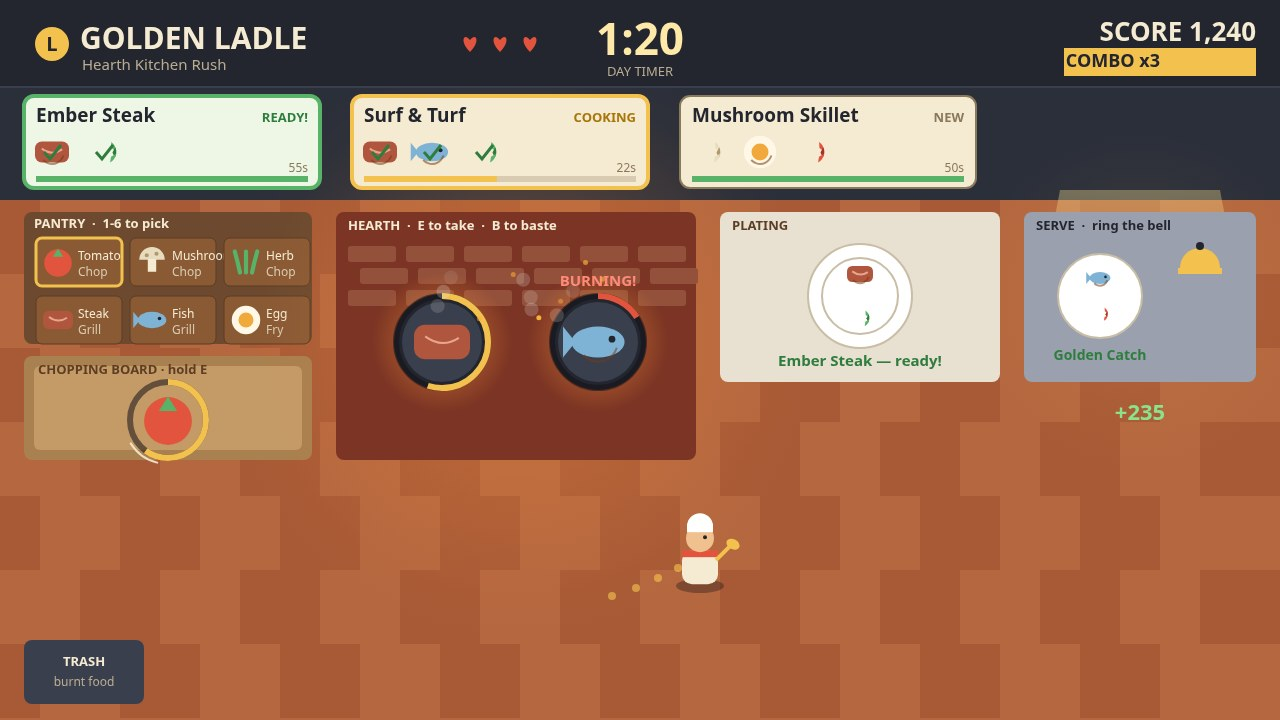
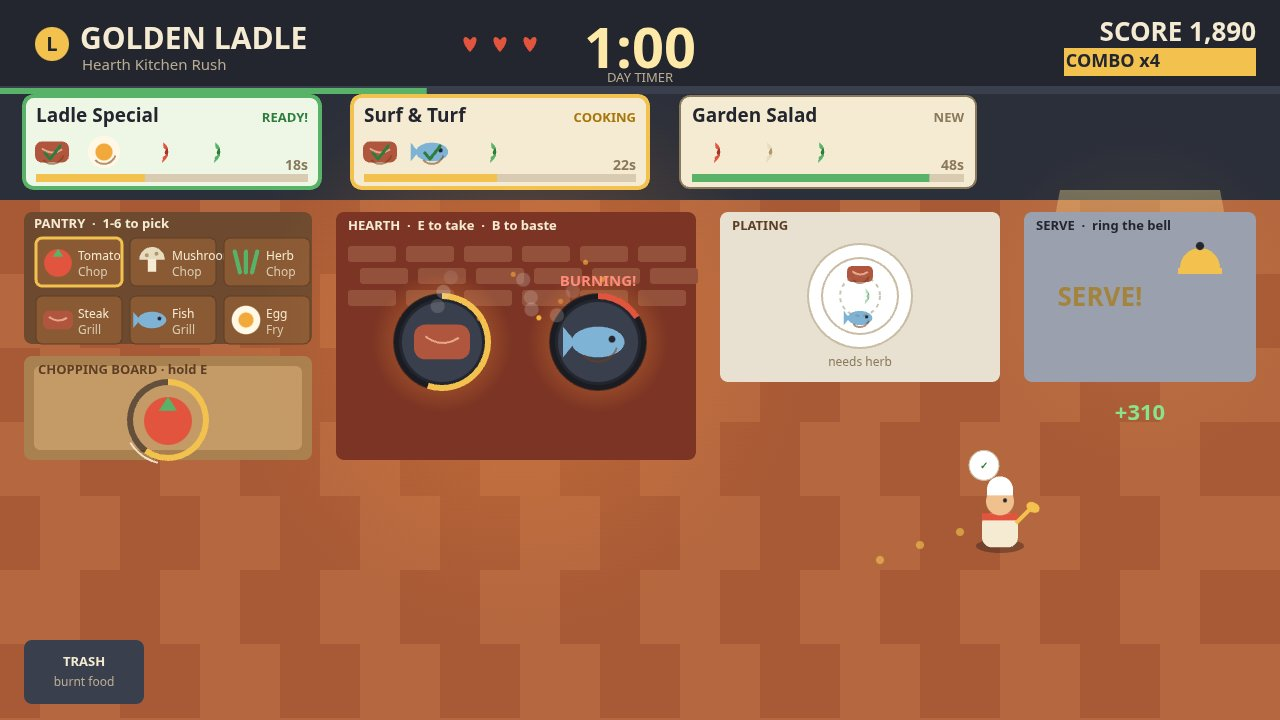
Golden Ladle v2: Golden Hour, 10 dishes, faster ramp, bigger timer, richer cover
- Two new dishes (Hearth Brunch, Golden Chowder): menu is now 10 dishes
- Golden Hour: the last 30 seconds of the day pay double tips, with a
  gold banner, flashing timer and a day-progress bar under the top bar
- Faster ramp: patience shrinks 55s to 30s across the day, four-need
  dishes are weighted in after 90s, tickets respawn faster after 120s
- HUD: day timer 44px to 56px, ticket patience in bold 14px with a
  thicker bar, SERVE! prompt never fades below 80 percent
- Screenshots re-staged and re-taken: cover now shows a READY ticket
  (chef carrying the finished Ladle Special), Surf & Turf mid-assembly
  with the herb ghost, a pan about to burn, and the 1:00 timer
- Selftest grows to 11 checks, including the menu size and a Golden
  Hour serve paying double

diff --git a/game/src/shots.js b/game/src/shots.js
@@ -34,40 +34,47 @@ function seedEmbers(world) {
   }
 }
 
-/** The cover: mid-rush, combo x3, three tickets in three states, a dish
- *  mid-assembly, a pan sizzling, one near burn, and a finished dish on the
- *  serve pass under its spotlight. */
+/** The cover: mid-rush, combo x4, three tickets in three states — one
+ *  READY (the chef carries the finished Ladle Special to the pass), one
+ *  mid-assembly on the plate (Surf & Turf, herb still missing), one new —
+ *  a pan sizzling, one near burn, a dish chopping, and the last serve still
+ *  on the pass under its spotlight. */
 function stageCover(world) {
   world.reset();
-  world.elapsed = 100;
-  world.dayLeft = 80;
-  world.score = 1240;
-  world.combo = 3;
-  world.bestCombo = 3;
-  world.served = 9;
+  world.elapsed = 120;
+  world.dayLeft = 60;
+  world.score = 1890;
+  world.combo = 4;
+  world.bestCombo = 4;
+  world.served = 12;
   world.tickets = [];
-  setTicket(world, 0, 'ember-steak', 55, 55);
+  setTicket(world, 0, 'ladle-special', 18, 45);
   setTicket(world, 1, 'surf-turf', 22, 45);
-  setTicket(world, 2, 'mushroom-skillet', 50, 50);
+  setTicket(world, 2, 'garden-salad', 48, 55);
   world.board.piece = rawPiece('tomato');
   world.board.progress = 0.6;
   world.burners[0].piece = rawPiece('steak');
   world.burners[0].progress = 0.55;
   world.burners[1].piece = donePiece('fish', 'cooked');
   world.burners[1].burn = 4.2;
-  world.plate.pieces = [donePiece('steak', 'cooked', true), donePiece('herb', 'chopped')];
-  world.plate.dishId = 'ember-steak';
+  world.plate.pieces = [donePiece('steak', 'cooked'), donePiece('fish', 'cooked')];
   world.passDish = { dishId: 'golden-catch', life: 2.5 };
-  world.chef.x = 700;
-  world.chef.y = 560;
+  world.chef.x = 1000;
+  world.chef.y = 520;
   world.chef.dir = 1;
-  seedTrail(world, [[612, 596], [636, 588], [658, 578], [678, 568]]);
-  world.addFloater(1140, 420, '+235', '#8be28b');
+  world.chef.carrying = [{
+    kind: 'plate',
+    components: [donePiece('steak', 'cooked', true), donePiece('egg', 'cooked'), donePiece('tomato', 'chopped'), donePiece('herb', 'chopped')],
+    dishId: 'ladle-special',
+    basted: true,
+  }];
+  seedTrail(world, [[880, 560], [920, 545], [960, 532]]);
+  world.addFloater(1140, 420, '+310', '#8be28b');
   seedEmbers(world);
 }
 
 /** Mid-assembly: a chopped mushroom waits on the board, an egg fries, and
- *  the plate is two thirds of a Hearth Omelette with the herb still missing. */
+ *  the plate is two thirds of a Hearth Brunch with the herb still missing. */
 function stageAssembly(world) {
   world.reset();
   world.elapsed = 45;
@@ -77,13 +84,13 @@ function stageAssembly(world) {
   world.bestCombo = 2;
   world.served = 3;
   world.tickets = [];
-  setTicket(world, 0, 'hearth-omelette', 30, 45);
+  setTicket(world, 0, 'hearth-brunch', 30, 45);
   setTicket(world, 1, 'ember-steak', 40, 50);
   setTicket(world, 2, 'garden-salad', 48, 55);
   world.board.piece = donePiece('mushroom', 'chopped');
   world.burners[0].piece = rawPiece('egg');
   world.burners[0].progress = 0.7;
-  world.plate.pieces = [donePiece('egg', 'cooked'), donePiece('mushroom', 'chopped')];
+  world.plate.pieces = [donePiece('egg', 'cooked'), donePiece('tomato', 'chopped')];
   world.chef.x = 168;
   world.chef.y = 480;
   world.chef.dir = 1;
@@ -91,7 +98,7 @@ function stageAssembly(world) {
   seedEmbers(world);
 }
 
-/** The serve: the chef carries a finished Ladle Special to the pass, the
+/** The serve: the chef carries a finished Golden Chowder to the pass, the
  *  ticket is stamped READY and the SERVE! prompt is lit. */
 function stageServe(world) {
   world.reset();
@@ -102,7 +109,7 @@ function stageServe(world) {
   world.bestCombo = 4;
   world.served = 12;
   world.tickets = [];
-  setTicket(world, 0, 'ladle-special', 18, 45);
+  setTicket(world, 0, 'golden-chowder', 18, 45);
   setTicket(world, 1, 'surf-turf', 20, 40);
   setTicket(world, 2, 'fishermans-plate', 44, 50);
   world.burners[0].piece = rawPiece('steak');
@@ -112,8 +119,8 @@ function stageServe(world) {
   world.chef.dir = -1;
   world.chef.carrying = [{
     kind: 'plate',
-    components: [donePiece('steak', 'cooked', true), donePiece('egg', 'cooked'), donePiece('tomato', 'chopped'), donePiece('herb', 'chopped')],
-    dishId: 'ladle-special',
+    components: [donePiece('fish', 'cooked', true), donePiece('mushroom', 'chopped'), donePiece('egg', 'cooked')],
+    dishId: 'golden-chowder',
     basted: true,
   }];
   seedTrail(world, [[1020, 520], [1060, 470], [1100, 430]]);
@@ -147,7 +154,7 @@ function stageRush(world) {
   world.chef.y = 560;
   world.chef.dir = 1;
   seedTrail(world, [[430, 600], [460, 585], [490, 572]]);
-  world.addFloater(700, 500, 'Final orders!', '#ff8a7a');
+  world.addFloater(700, 500, 'GOLDEN HOUR x2!', '#ffd76a');
   seedEmbers(world);
 }
 

diff --git a/game/src/kitchen.js b/game/src/kitchen.js
@@ -17,6 +17,7 @@ export const INTERACT_RANGE = 100;
 export const BURN_GRACE_SECONDS = 5;
 export const BASTE_EXTRA_SECONDS = 4;
 export const BASTE_TIP = 15;
+export const GOLDEN_HOUR_SECONDS = 30;
 
 // Station rectangles on the 1280x720 floor, and the spot the chef stands on
 // to use each one. Stations hug the back wall; the chef works the floor below.
@@ -89,14 +90,23 @@ export class KitchenWorld {
     for (let index = 0; index < MAX_TICKETS; index += 1) this.dealTicket();
   }
 
-  /** Deal one new order ticket; early in the day the menu stays simple. */
+  /** Deal one new order ticket; early in the day the menu stays simple,
+   *  late in the day the big four-need dishes show up more often. */
   dealTicket() {
     const simple = DISHES.filter((dish) => dish.needs.length === 2);
-    const pool = this.elapsed < 60 && this.random() < 0.6 ? simple : DISHES;
+    const big = DISHES.filter((dish) => dish.needs.length === 4);
+    let pool = DISHES;
+    if (this.elapsed < 60 && this.random() < 0.6) pool = simple;
+    else if (this.elapsed >= 90 && this.random() < 0.35) pool = big;
     const dish = pickFrom(this.random, pool);
-    const patience = Math.round(55 - Math.min(20, (this.elapsed / DAY_SECONDS) * 20));
+    const patience = Math.round(55 - Math.min(25, (this.elapsed / DAY_SECONDS) * 25));
     this.tickets.push({ uid: this.nextTicketUid, dishId: dish.id, patience, max: patience });
     this.nextTicketUid += 1;
+  }
+
+  /** The last 30 seconds of the day: every tip is doubled. */
+  goldenHour() {
+    return !this.over && this.dayLeft <= GOLDEN_HOUR_SECONDS;
   }
 
   plateComponentKeys() {
@@ -378,16 +388,17 @@ export class KitchenWorld {
       const dish = dishById(ticket.dishId);
       const tip = Math.round(dish.price * 0.5 * (ticket.patience / ticket.max)) + (plateItem.basted ? BASTE_TIP : 0);
       const multiplier = 1 + 0.25 * Math.min(this.combo, 8);
-      const earned = Math.round((dish.price + tip) * multiplier);
+      const golden = this.goldenHour();
+      const earned = Math.round((dish.price + tip) * multiplier * (golden ? 2 : 1));
       this.score += earned;
       this.combo += 1;
       this.bestCombo = Math.max(this.bestCombo, this.combo);
       this.served += 1;
       this.passDish = { dishId: dish.id, life: 2.5 };
-      this.addFloater(1140, 240, `+${earned}`, '#8be28b');
+      this.addFloater(1140, 240, golden ? `GOLDEN +${earned}` : `+${earned}`, '#ffd76a');
       chef.carrying.splice(chef.carrying.indexOf(plateItem), 1);
       this.tickets.splice(ticketIndex, 1);
-      this.spawnIn = 1.2;
+      this.spawnIn = this.elapsed > 120 ? 0.8 : 1.2;
       return ['serve'];
     }
     if (station === 'trash') {
@@ -492,7 +503,7 @@ export class KitchenWorld {
       this.spawnIn -= dt;
       if (this.spawnIn <= 0) {
         this.dealTicket();
-        this.spawnIn = 1.5;
+        this.spawnIn = this.elapsed > 120 ? 0.9 : 1.5;
       }
     }
   }

diff --git a/game/src/hud.js b/game/src/hud.js
@@ -71,13 +71,26 @@ export function drawTopBar(ctx, world) {
 
   // Day clock, centre, big enough to feel.
   const lowTime = world.dayLeft <= 30;
+  const golden = world.goldenHour();
   ctx.textAlign = 'center';
   ctx.fillStyle = lowTime && Math.floor(world.elapsed * 2) % 2 === 0 ? '#ff8a7a' : '#ffe9a8';
-  ctx.font = 'bold 44px system-ui, sans-serif';
-  ctx.fillText(formatClock(world.dayLeft), 640, 42);
-  ctx.fillStyle = '#b9ac93';
-  ctx.font = '13px system-ui, sans-serif';
-  ctx.fillText('DAY TIMER', 640, 72);
+  ctx.font = 'bold 56px system-ui, sans-serif';
+  ctx.fillText(formatClock(world.dayLeft), 640, 52);
+  if (golden) {
+    ctx.fillStyle = '#f2c14e';
+    ctx.font = 'bold 15px system-ui, sans-serif';
+    ctx.fillText('★ GOLDEN HOUR · TIPS x2 ★', 640, 78);
+  } else {
+    ctx.fillStyle = '#b9ac93';
+    ctx.font = '13px system-ui, sans-serif';
+    ctx.fillText('DAY TIMER', 640, 78);
+  }
+  // Day-progress bar under the top bar: the whole day, shrinking.
+  const dayFraction = Math.max(0, world.dayLeft / 180);
+  ctx.fillStyle = '#3a3f4d';
+  ctx.fillRect(0, 88, 1280, 6);
+  ctx.fillStyle = golden ? '#f2c14e' : lowTime ? '#e2543e' : '#58b368';
+  ctx.fillRect(0, 88, 1280 * dayFraction, 6);
 
   // Score, combo and hearts, right.
   ctx.textAlign = 'right';
@@ -156,13 +169,13 @@ export function drawOrderBoard(ctx, world) {
     });
 
     ctx.fillStyle = '#d8cbb2';
-    ctx.fillRect(x + 12, CARD_Y + CARD_H - 12, CARD_W - 24, 6);
+    ctx.fillRect(x + 12, CARD_Y + CARD_H - 14, CARD_W - 24, 8);
     ctx.fillStyle = patienceColor(fraction);
-    ctx.fillRect(x + 12, CARD_Y + CARD_H - 12, (CARD_W - 24) * fraction, 6);
+    ctx.fillRect(x + 12, CARD_Y + CARD_H - 14, (CARD_W - 24) * fraction, 8);
     ctx.fillStyle = '#8a7a5c';
-    ctx.font = '12px system-ui, sans-serif';
+    ctx.font = 'bold 14px system-ui, sans-serif';
     ctx.textAlign = 'right';
-    ctx.fillText(`${Math.ceil(ticket.patience)}s`, x + CARD_W - 12, CARD_Y + CARD_H - 16);
+    ctx.fillText(`${Math.ceil(ticket.patience)}s`, x + CARD_W - 12, CARD_Y + CARD_H - 18);
   });
   // Empty slots keep the board honest about the rush.
   for (let index = world.tickets.length; index < 3; index += 1) {
@@ -212,6 +225,7 @@ export function drawTitleOverlay(ctx, world) {
     'Move: WASD / arrows or click  ·  Use: E or Space (hold to chop)',
     'Baste with B to hold a burn and earn a tip  ·  1-6 picks a crate',
     'Serve fast: tips shrink as patience runs out. Three strikes and the day ends.',
+    'Last 30 seconds are Golden Hour: every tip pays double.',
   ], 'Press Enter or click to start cooking');
   void world;
 }

diff --git a/game/src/main.js b/game/src/main.js
@@ -5,6 +5,7 @@
 // ?selftest=1 it drives the rules headlessly and reports PASS or FAIL.
 
 import { KitchenWorld } from './kitchen.js';
+import { DISHES } from './recipes.js';
 import { renderKitchenFrame } from './render.js';
 import { drawTitleOverlay, drawPauseOverlay, drawGameOverOverlay } from './hud.js';
 import { createInput } from './input.js';
@@ -144,6 +145,30 @@ function runSelfTest() {
   testWorld.elapsed = 179.9;
   testWorld.step(0.2, { ...idle });
   check('day timer ends the game', testWorld.over === true && testWorld.overReason === 'day');
+
+  // 6. The menu grew, and Golden Hour doubles the serve.
+  check('menu has 10 dishes', DISHES.length === 10);
+  const goldenWorld = new KitchenWorld(13);
+  goldenWorld.elapsed = 155;
+  goldenWorld.step(0.05, { ...idle });
+  check('golden hour in the last 30 seconds', goldenWorld.dayLeft <= 30 && goldenWorld.goldenHour());
+  goldenWorld.tickets = [{ uid: 1, dishId: 'ladle-special', patience: 45, max: 45 }];
+  goldenWorld.plate.pieces = [
+    { kind: 'piece', ingredient: 'steak', state: 'cooked', basted: false },
+    { kind: 'piece', ingredient: 'egg', state: 'cooked', basted: false },
+    { kind: 'piece', ingredient: 'tomato', state: 'chopped', basted: false },
+    { kind: 'piece', ingredient: 'herb', state: 'chopped', basted: false },
+  ];
+  goldenWorld.refreshPlateDish();
+  check('plate completes Ladle Special', goldenWorld.plate.dishId === 'ladle-special');
+  goldenWorld.chef.x = 860;
+  goldenWorld.chef.y = 402;
+  goldenWorld.step(0.05, { ...idle, usePressed: true });
+  goldenWorld.chef.x = 1140;
+  goldenWorld.chef.y = 402;
+  goldenWorld.step(0.05, { ...idle, usePressed: true });
+  check('golden hour serve pays double', goldenWorld.served === 1 && goldenWorld.score >= 700);
+
   check('no network requests were made', performance.getEntriesByType('resource').every((entry) => !entry.name.startsWith('http') || entry.name.startsWith(window.location.origin)));
   return lines;
 }

diff --git a/game/src/recipes.js b/game/src/recipes.js
@@ -20,6 +20,8 @@ export const DISHES = [
   { id: 'ladle-special', name: 'Ladle Special', price: 240, needs: ['steak:cooked', 'egg:cooked', 'tomato:chopped', 'herb:chopped'] },
   { id: 'mushroom-skillet', name: 'Mushroom Skillet', price: 150, needs: ['mushroom:chopped', 'egg:cooked', 'tomato:chopped'] },
   { id: 'fishermans-plate', name: "Fisherman's Plate", price: 170, needs: ['fish:cooked', 'egg:cooked', 'herb:chopped'] },
+  { id: 'hearth-brunch', name: 'Hearth Brunch', price: 160, needs: ['egg:cooked', 'tomato:chopped', 'herb:chopped'] },
+  { id: 'golden-chowder', name: 'Golden Chowder', price: 180, needs: ['fish:cooked', 'mushroom:chopped', 'egg:cooked'] },
 ];
 
 export function ingredientById(id) {

diff --git a/game/src/render.js b/game/src/render.js
@@ -372,7 +372,7 @@ function drawServePass(ctx, world) {
   ctx.arc(1200, 246, 4, 0, Math.PI * 2);
   ctx.fill();
   if (carryingPlate) {
-    const pulse = 0.6 + 0.4 * Math.sin(world.elapsed * 6);
+    const pulse = 0.8 + 0.2 * Math.sin(world.elapsed * 6);
     ctx.save();
     ctx.globalAlpha = pulse;
     ctx.fillStyle = '#a87608';

diff --git a/README.md b/README.md
@@ -4,7 +4,7 @@
 [![rank](https://make.fun/badge/best-cooking-game-20261125-0137/fadlisick/golden-ladle-entry/rank.svg)](https://make.fun/bounty/best-cooking-game-20261125-0137/leaderboard?utm_source=github&utm_medium=readme&utm_campaign=best-cooking-game-20261125-0137)
 [![reward](https://make.fun/badge/best-cooking-game-20261125-0137/fadlisick/golden-ladle-entry/reward.svg)](https://make.fun/bounty/best-cooking-game-20261125-0137?utm_source=github&utm_medium=readme&utm_campaign=best-cooking-game-20261125-0137)
 
-A complete timed cooking game: run a warm hearth kitchen, work the order board, and serve dishes before their patience runs out. Grab ingredients from the pantry, chop them on the board, grill them on the hearth, plate the dish, and ring the bell at the serve pass. Baste with the golden ladle to hold a burn off and earn a tip.
+A complete timed cooking game: run a warm hearth kitchen, work the order board, and serve dishes before their patience runs out. Grab ingredients from the pantry, chop them on the board, grill them on the hearth, plate the dish, and ring the bell at the serve pass. Baste with the golden ladle to hold a burn off and earn a tip. Ten dishes on the menu, and the last 30 seconds of the day are Golden Hour: every tip pays double.
 
 ## Play it
 
